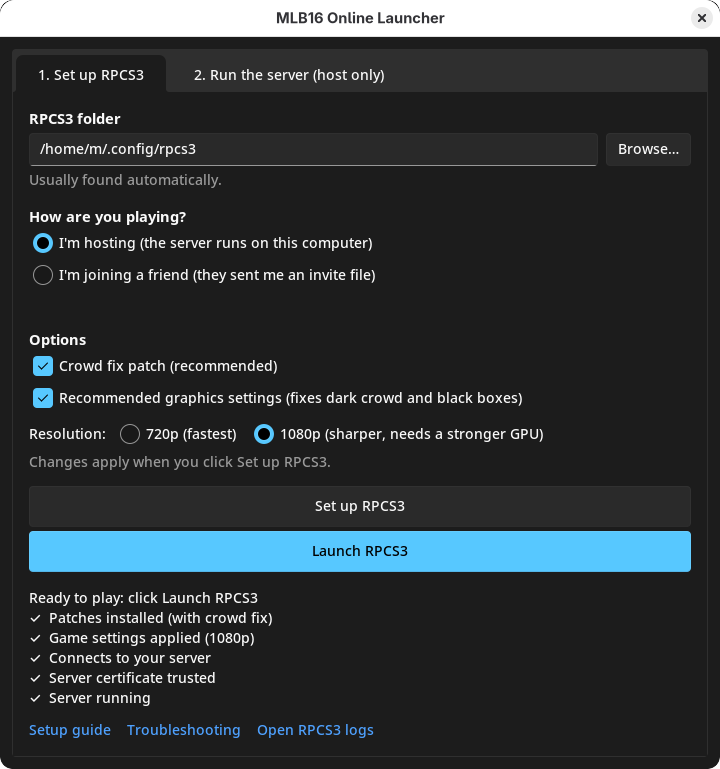
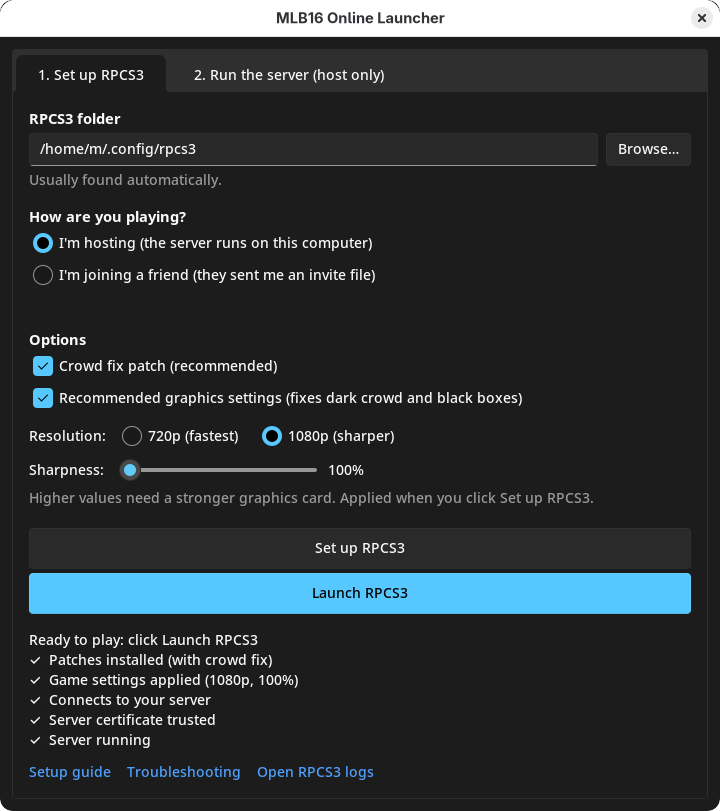
Launcher v0.3.8: Sharpness slider for the resolution scale
100 to 500% in 50% steps, reset to 100/150% when switching 720p/1080p. Resolution and Sharpness share an
aligned grid with a one-line hint. README screenshot retaken.

diff --git a/app/mlb16_online.py b/app/mlb16_online.py
@@ -168,18 +168,31 @@ class App(tk.Tk):
             row=8, column=0, columnspan=3, sticky='w', pady=2)
         ttk.Checkbutton(f, text='Recommended graphics settings (fixes dark crowd and black boxes)',
                         variable=self.graphics, command=self.refresh).grid(row=9, column=0, columnspan=3, sticky='w', pady=2)
+        # Resolution and Sharpness share a grid so their controls line up
         pic = ttk.Frame(f)
-        pic.grid(row=10, column=0, columnspan=3, sticky='w', pady=(6, 0))
+        pic.grid(row=10, column=0, columnspan=3, sticky='w', pady=(8, 0))
         self.picture = tk.StringVar(value=self.cfg['picture'])
-        ttk.Label(pic, text='Resolution:').pack(side='left')
-        ttk.Radiobutton(pic, text='720p (fastest)', variable=self.picture, value='720p', command=self.refresh).pack(side='left', padx=(10, 0))
-        ttk.Radiobutton(pic, text='1080p (sharper, needs a stronger GPU)', variable=self.picture,
-                        value='1080p', command=self.refresh).pack(side='left', padx=(10, 0))
-        ttk.Label(f, text='Changes apply when you click Set up RPCS3.', style='Hint.TLabel').grid(
-            row=11, column=0, columnspan=3, sticky='w', pady=(4, 0))
+        ttk.Label(pic, text='Resolution:').grid(row=0, column=0, sticky='w', padx=(0, 12))
+        res = ttk.Frame(pic)
+        res.grid(row=0, column=1, sticky='w')
+        ttk.Radiobutton(res, text='720p (fastest)', variable=self.picture, value='720p',
+                        command=self.picture_changed).pack(side='left')
+        ttk.Radiobutton(res, text='1080p (sharper)', variable=self.picture, value='1080p',
+                        command=self.picture_changed).pack(side='left', padx=(16, 0))
+        self.scale = tk.IntVar(value=self.cfg.get('scale') or int(s.PICTURE[self.picture.get()]['Resolution Scale']))
+        ttk.Label(pic, text='Sharpness:').grid(row=1, column=0, sticky='w', padx=(0, 12), pady=(8, 0))
+        sharp = ttk.Frame(pic)
+        sharp.grid(row=1, column=1, sticky='w', pady=(8, 0))
+        self.scale_slider = ttk.Scale(sharp, from_=100, to=500, length=200, value=self.scale.get(),
+                                      command=self.scale_moved)
+        self.scale_slider.pack(side='left')
+        self.scale_label = ttk.Label(sharp, text=f'{self.scale.get()}%', width=5)
+        self.scale_label.pack(side='left', padx=(10, 0))
+        ttk.Label(f, text='Higher values need a stronger graphics card. Applied when you click Set up RPCS3.',
+                  style='Hint.TLabel').grid(row=11, column=0, columnspan=3, sticky='w', pady=(6, 0))
 
         self.setup_btn = ttk.Button(f, text='Set up RPCS3', command=self.do_setup)
-        self.setup_btn.grid(row=12, column=0, columnspan=3, sticky='ew', pady=(14, 4), ipady=4)
+        self.setup_btn.grid(row=12, column=0, columnspan=3, sticky='ew', pady=(20, 4), ipady=4)
         self.launch_btn = ttk.Button(f, text='Launch RPCS3', command=self.launch_rpcs3)
         self.launch_btn.grid(row=13, column=0, columnspan=3, sticky='ew', ipady=4)
 
@@ -264,6 +277,23 @@ class App(tk.Tk):
             self.cfg.save()
             messagebox.showerror('Launch RPCS3', f'Could not start RPCS3:\n{e}')
 
+    def picture_changed(self):
+        self.set_scale(int(s.PICTURE[self.picture.get()]['Resolution Scale']))
+        self.refresh()
+
+    def scale_moved(self, value):
+        if self.set_scale(round(float(value) / 50) * 50):   # the slider fires on every pixel of a drag
+            self.refresh()
+
+    def set_scale(self, v):
+        """Snaps the slider to 50% steps. True if the value changed."""
+        if self.scale_slider.get() != v:   # set() runs the slider's command again
+            self.scale_slider.set(v)
+        self.scale_label.config(text=f'{v}%')
+        changed = v != self.scale.get()
+        self.scale.set(v)
+        return changed
+
     def do_setup(self):
         r = s.Rpcs3(self.rpcs3_dir.get().strip())
         problem = r.problem()
@@ -280,14 +310,15 @@ class App(tk.Tk):
             return
         try:
             s.install_patches(r, crowd_fix=self.crowd.get())
-            s.install_game_config(r, ip, graphics=self.graphics.get(), picture=self.picture.get())
+            s.install_game_config(r, ip, graphics=self.graphics.get(), picture=self.picture.get(),
+                                  scale=self.scale.get())
             s.install_ca(r, ca)
         except OSError as e:
             messagebox.showerror('Setup failed', "Couldn't change the files in your RPCS3 folder. Make sure RPCS3 is "
                                  f'closed and the folder is right, then try again.\n\nDetails: {e}')
             return
         self.cfg.update(rpcs3_dir=str(r.root), mode=self.mode.get(), crowd_fix=self.crowd.get(),
-                        graphics=self.graphics.get(), picture=self.picture.get())
+                        graphics=self.graphics.get(), picture=self.picture.get(), scale=self.scale.get())
         self.cfg.save()
         self.refresh()
         messagebox.showinfo('Done', 'RPCS3 is set up.\n\n'
@@ -316,11 +347,12 @@ class App(tk.Tk):
             ca = s.installed_ca(r)
             server = s.game_config_server(r)
             where = 'your server' if server == '127.0.0.1' else server
-            crowd, graphics, picture = self.crowd.get(), self.graphics.get(), self.picture.get()
+            crowd, graphics, picture, scale = self.crowd.get(), self.graphics.get(), self.picture.get(), self.scale.get()
             # each row compares RPCS3's files with the options chosen above, so a changed option shows up here
             rows = [(s.patches_status(r, crowd), 'Patches installed' + (' (with crowd fix)' if crowd else ''),
                      'Patches'),
-                    (s.game_config_status(r, graphics, picture), f'Game settings applied ({picture})', 'Game settings'),
+                    (s.game_config_status(r, graphics, picture, scale), f'Game settings applied ({picture}, {scale}%)',
+                     'Game settings'),
                     (server is not None and server == want_ip, f'Connects to {where}', 'Server address'),
                     (ca is not None and isinstance(want_ca, bytes) and ca == want_ca, 'Server certificate trusted',
                      'Server certificate')]

diff --git a/app/setup_logic.py b/app/setup_logic.py
@@ -246,7 +246,7 @@ def patches_status(r, crowd_fix=True):
 
 # ---------------------------------------------------------------- per-game config
 
-def install_game_config(r, server_ip, graphics=True, picture='720p'):
+def install_game_config(r, server_ip, graphics=True, picture='720p', scale=None):
     """Merges our settings into RPCS3's custom config for this game (created if missing). RPCS3 applies it on top
     of the global config, so only these keys change, and only for MLB The Show 16."""
     cfg = load_yaml(r.custom_config)
@@ -264,15 +264,17 @@ def install_game_config(r, server_ip, graphics=True, picture='720p'):
     if graphics:
         video.update(GRAPHICS)
     video.update(PICTURE[picture], **{'Output Scaling Mode': 'Bilinear'})
+    if scale:
+        video['Resolution Scale'] = str(scale)
     write_text(r.custom_config, dump_yaml(cfg))
 
 
-def game_config_status(r, graphics=True, picture='720p'):
+def game_config_status(r, graphics=True, picture='720p', scale=None):
     """True if this game's config has the settings install_game_config would write with these options."""
     cfg = load_yaml(r.custom_config)
     core, video = cfg.get('Core', {}), cfg.get('Video', {})
     want = {**VIDEO_STABILITY, **(GRAPHICS if graphics else {}), **PICTURE[picture],
-            'Output Scaling Mode': 'Bilinear'}
+            'Output Scaling Mode': 'Bilinear', **({'Resolution Scale': str(scale)} if scale else {})}
     return (all(core.get(k) == v for k, v in STABILITY.items()) and all(video.get(k) == v for k, v in want.items()))
 
 

diff --git a/app/test_setup_logic.py b/app/test_setup_logic.py
@@ -65,6 +65,9 @@ for windows in (False, True):
         assert c['Video']['Write Color Buffers'] == 'true' and c['Net']['PSN status'] == 'RPCN'
         assert s.game_config_server(r) == '100.1.2.3'
         assert s.game_config_status(r, graphics=False, picture='1080p') and s.game_config_status(r, picture='1080p')
+        s.install_game_config(r, '100.1.2.3', picture='1080p', scale=500)
+        assert s.load_yaml(r.custom_config)['Video']['Resolution Scale'] == '500'
+        assert s.game_config_status(r, picture='1080p', scale=500) and not s.game_config_status(r, picture='1080p')
 
         certs = root / 'hostcerts'
         s.make_server_certs(certs)

diff --git a/TECHNICAL.md b/TECHNICAL.md
@@ -17,7 +17,9 @@ The launcher applies these when "Recommended graphics settings" is ticked, for M
 custom config). By hand: right-click the game in RPCS3 → **Create Custom Configuration**, then set:
 - **GPU:** Write Color Buffers on, Strict Rendering Mode **off**, ZCULL Accuracy *Precise*, Shader Quality *High*,
   Output Scaling *Bilinear*. Picture: Default Resolution *720p* at Resolution Scale *100%*, or for a sharper picture
-  (the launcher's 1080p) Default Resolution *1080p*, Resolution Scale *150%* and Anisotropic Filter *8x*.
+  (the launcher's 1080p) Default Resolution *1080p*, Resolution Scale *150%* and Anisotropic Filter *8x*. The
+  launcher's Sharpness slider sets Resolution Scale (100 to 500%); 800% froze the game on an RTX 3060 Ti, likely out
+  of video memory.
 - **Advanced:** Read Color Buffers, Read Depth Buffer, Write Depth Buffer, Disable Vertex Cache on; **Accurate SPU
   Reservations on** (the default)
 - **CPU:** SPU Block Size **Safe**, RSX FIFO Accuracy **Atomic** and SPU XFloat Accuracy *Approximate XFloat* (the

diff --git a/README.md b/README.md
@@ -74,7 +74,8 @@ The launcher isn't signed, so the first launch needs one extra click:
 
 **The host:**
 1. **Set up RPCS3** tab → "I'm hosting" → **Set up RPCS3**.
-   Under **Resolution**, 720p runs fastest; 1080p is sharper if your graphics card can handle it.
+   Under **Resolution**, 720p runs fastest; 1080p is sharper if your graphics card can handle it. **Sharpness**
+   renders bigger and shrinks it to fit, for smoother edges: it only costs GPU power (500% ran fine on an RTX 3060 Ti).
 2. **Run the server** tab → **Start server**. Allow network access if your firewall asks. Keep the launcher open while you
    play: closing it stops the server.
 3. **Save invite file…** and send it to your friend (Discord, email, anything: it holds your address and your
